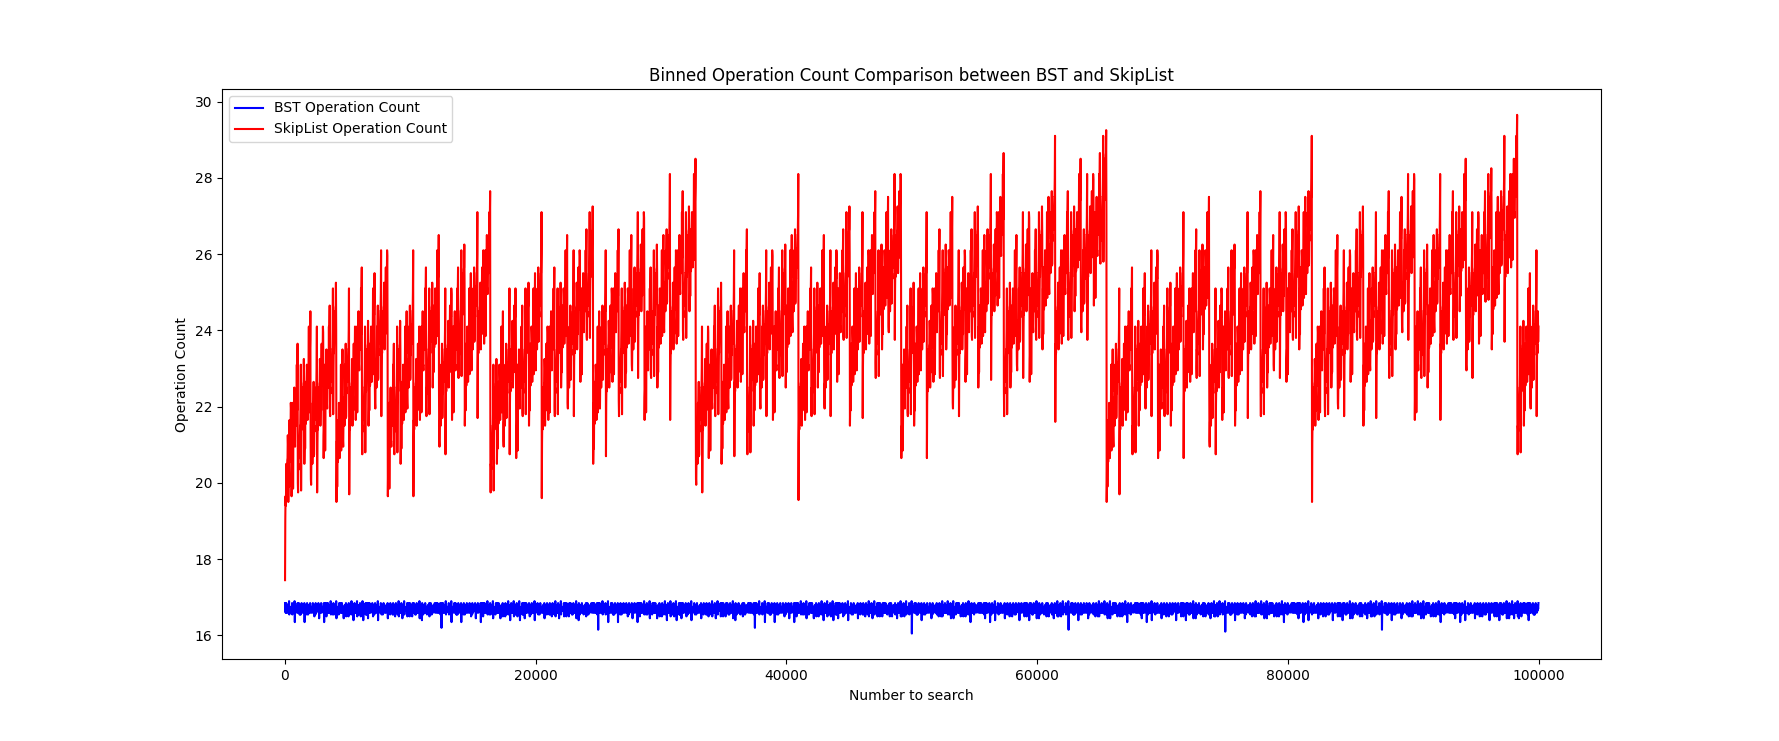
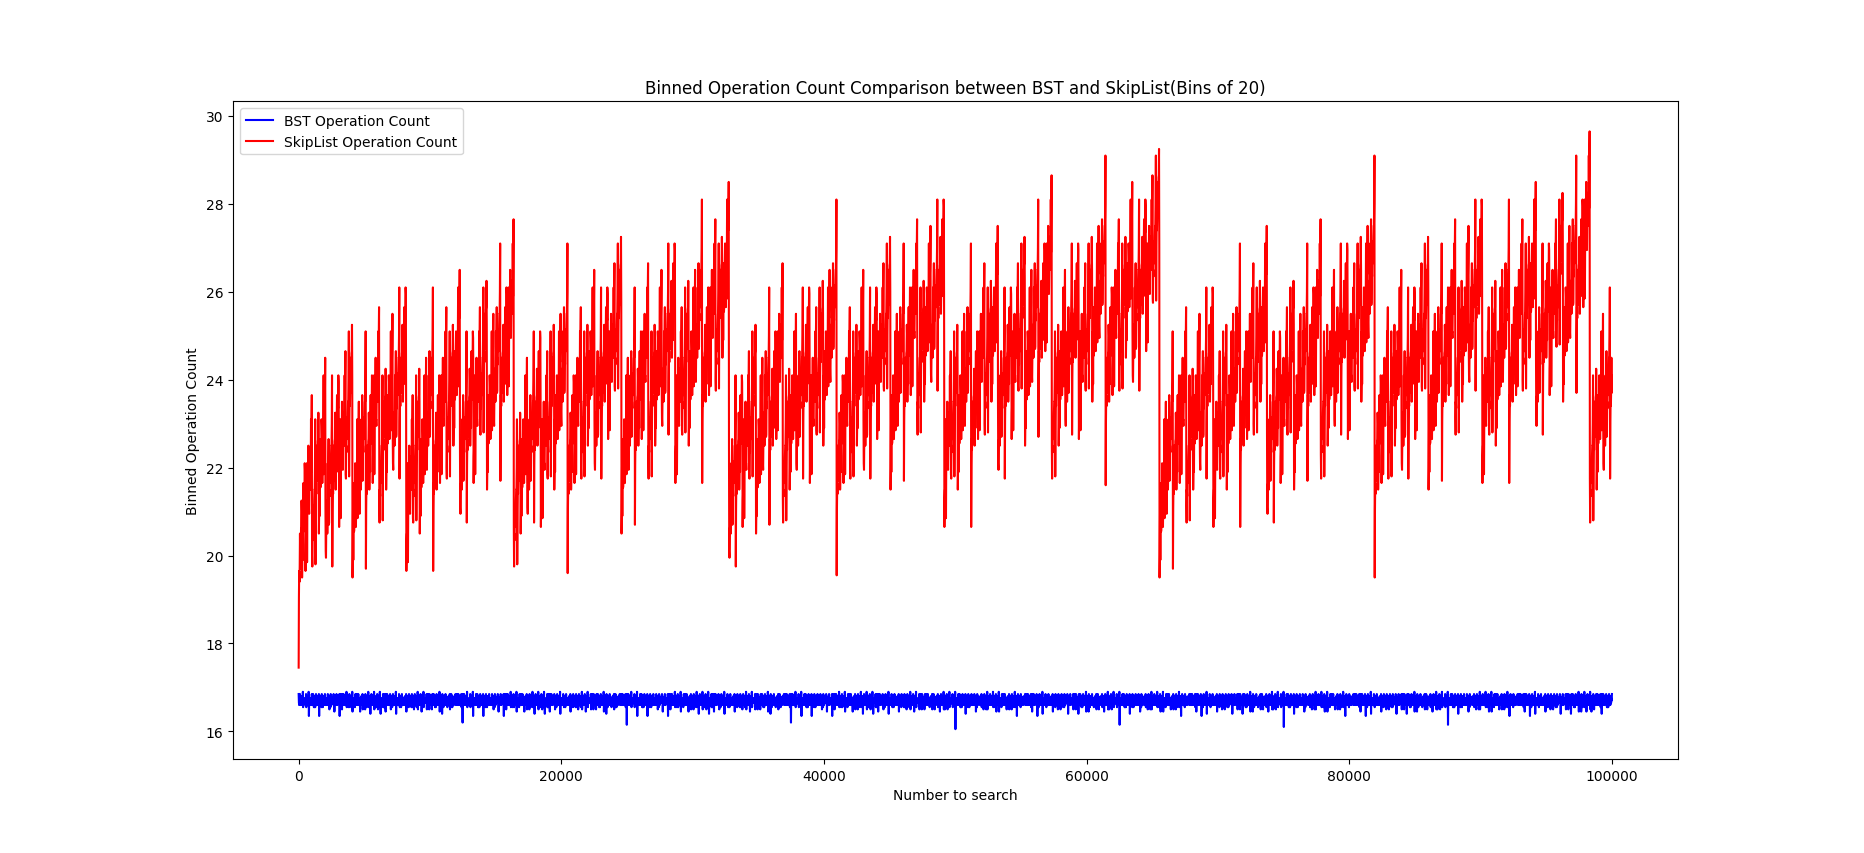
updated image with better title

diff --git a/SkipLists/statistical_analysis/analyze_num_ops.py b/SkipLists/statistical_analysis/analyze_num_ops.py
@@ -38,9 +38,9 @@ def plot_bst_skiplist(bin_centers, bst_binned, skiplist_binned):
     plt.plot(bin_centers, skiplist_binned, label='SkipList Operation Count', color='red')
 
     # Labeling the plot
-    plt.title('Binned Operation Count Comparison between BST and SkipList')
+    plt.title('Binned Operation Count Comparison between BST and SkipList(Bins of 20)')
     plt.xlabel('Number to search')
-    plt.ylabel('Operation Count')
+    plt.ylabel('Binned Operation Count')
     plt.legend()
     plt.show()
     return
